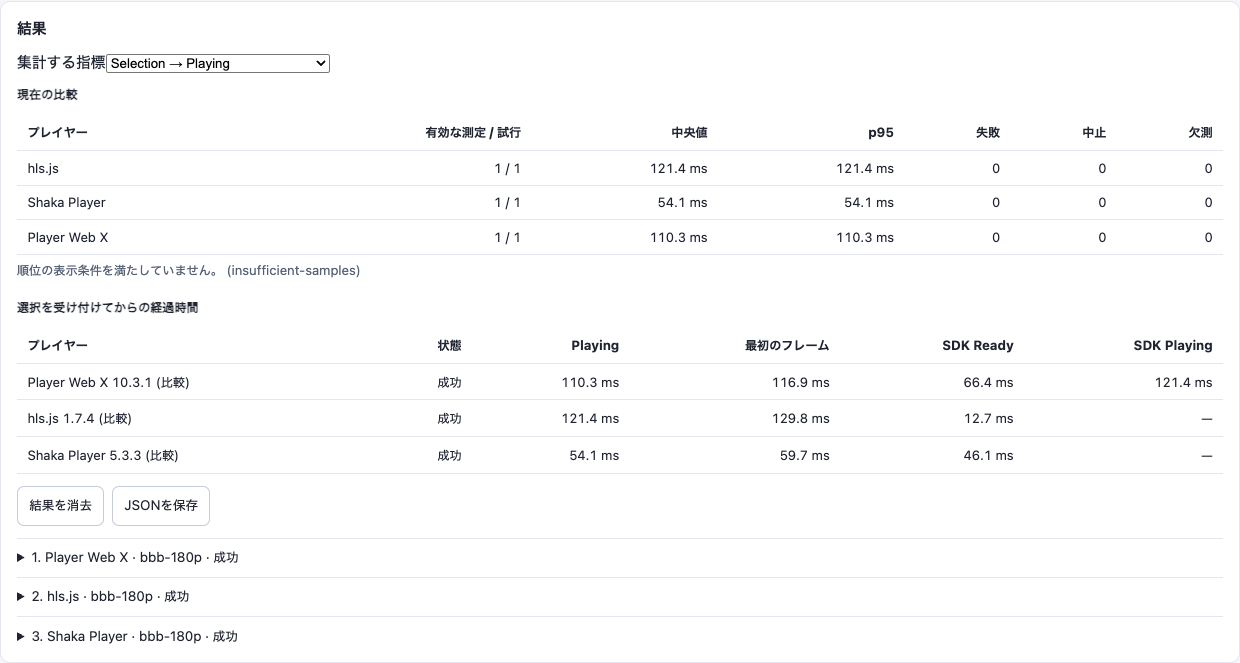
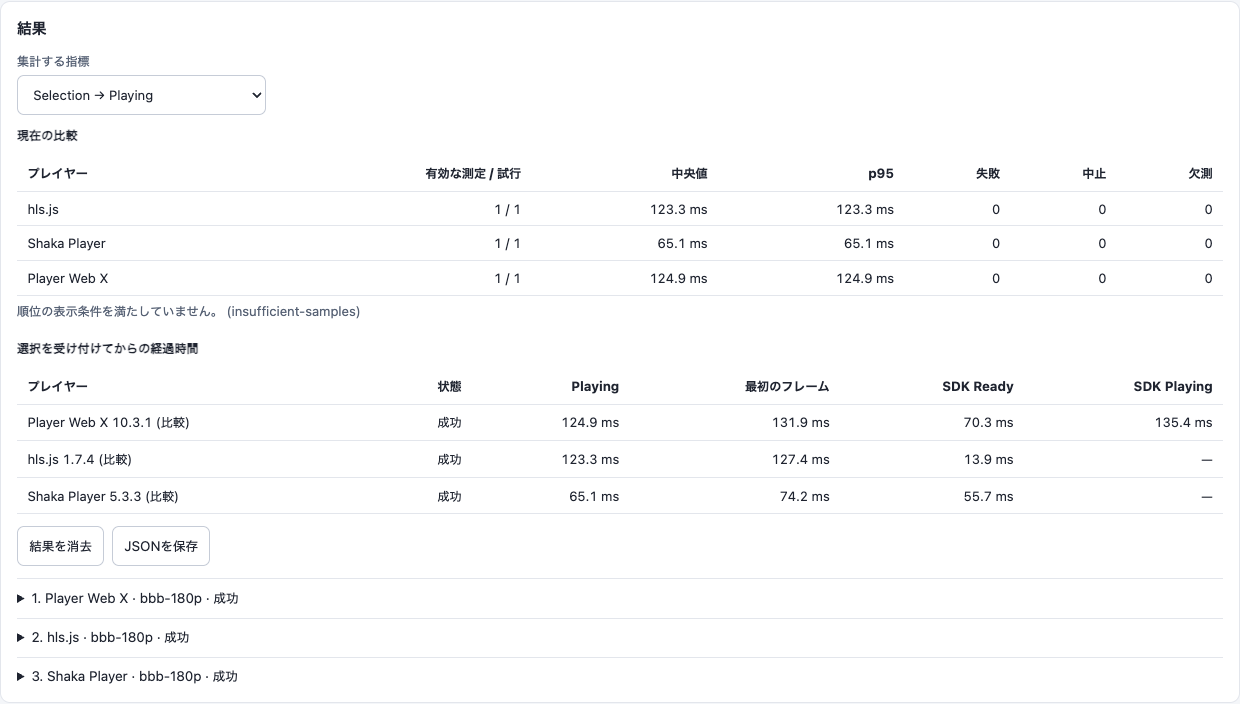
docs(web): refresh startup results after control styling

diff --git a/scripts/guide_routes.py b/scripts/guide_routes.py
@@ -142,7 +142,7 @@ LOCALIZED_FIGURES = {
     'ui-controls': {'en': (301, 546), 'ja': (301, 656)},
     'applied-settings': {'en': (1240, 511), 'ja': (1240, 512)},
     'web-startup-controls': {'en': (1240, 418), 'ja': (1240, 423)},
-    'web-startup-results': {'en': (1240, 634), 'ja': (1240, 663)},
+    'web-startup-results': {'en': (1240, 675), 'ja': (1240, 704)},
 }
 FIGURE_EXTENSIONS = {name: 'png' for name in (*NATIVE_FIGURES, *SHARED_FIGURES)}
 FIGURE_EXTENSIONS.update({name: 'png' for name in ('web-sdk-differences', 'web-startup-controls', 'web-startup-results')})
